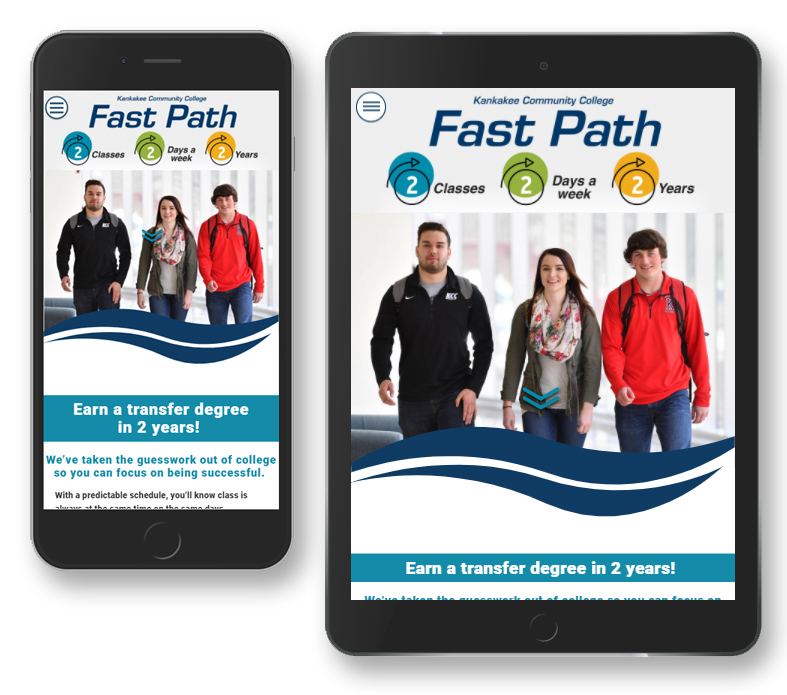
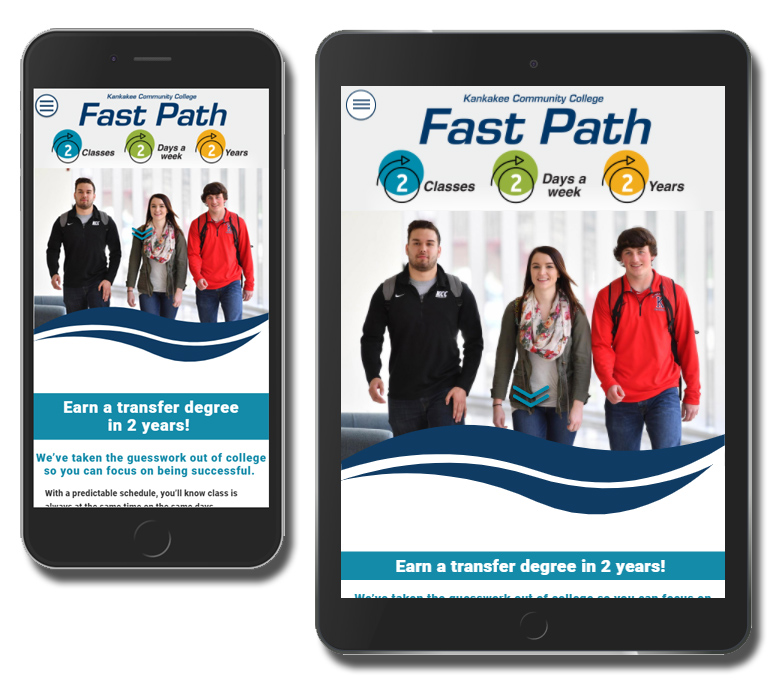
Edit README images

diff --git a/README.md b/README.md
@@ -2,7 +2,7 @@
 
 ## https://wdzajicek.github.io/jekyll-kcc-fastpath/
 
-<span><img src="img/fastpath-mobile-example.jpg"><img src="img/fastpath-desktop-example.jpg"></span>
+<img src="img/fastpath-example.jpg">
 
 Adapted from ShakyShane's jekyll-gulp-sass-browser-sync starter project. He did the initial setup for Jekyll, GulpJS, SASS, AutoPrefixer &amp; BrowserSync.
 
